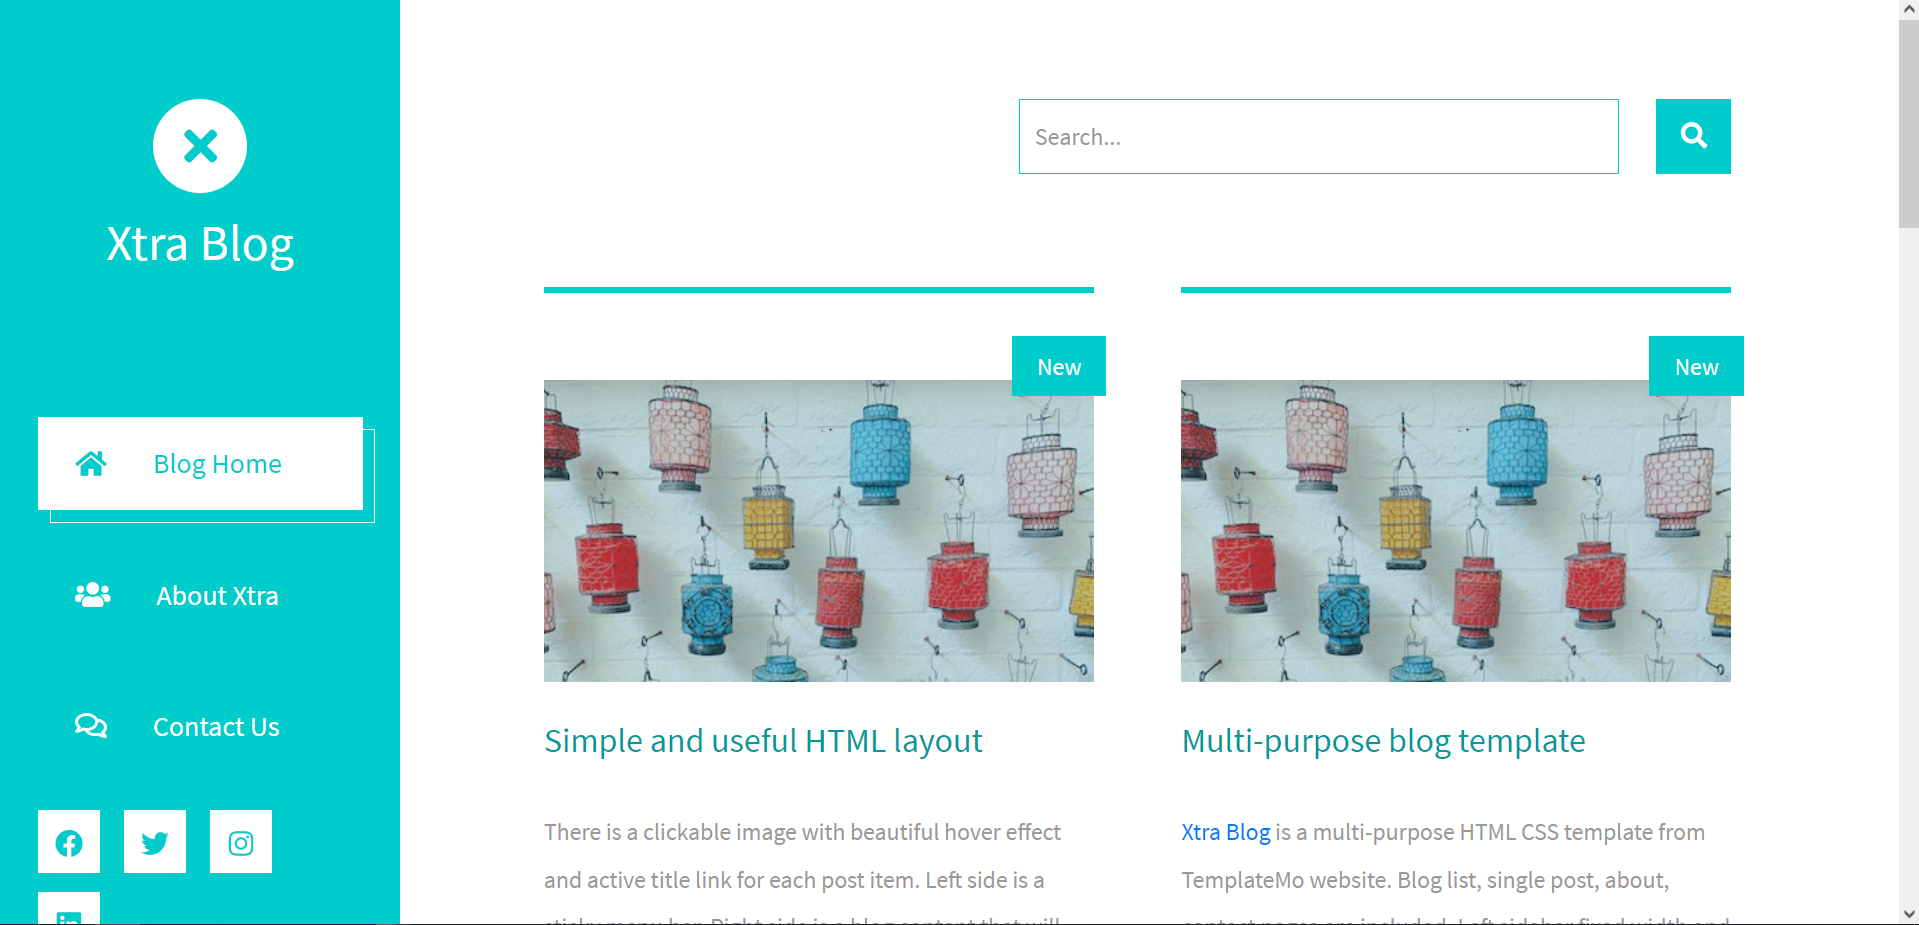
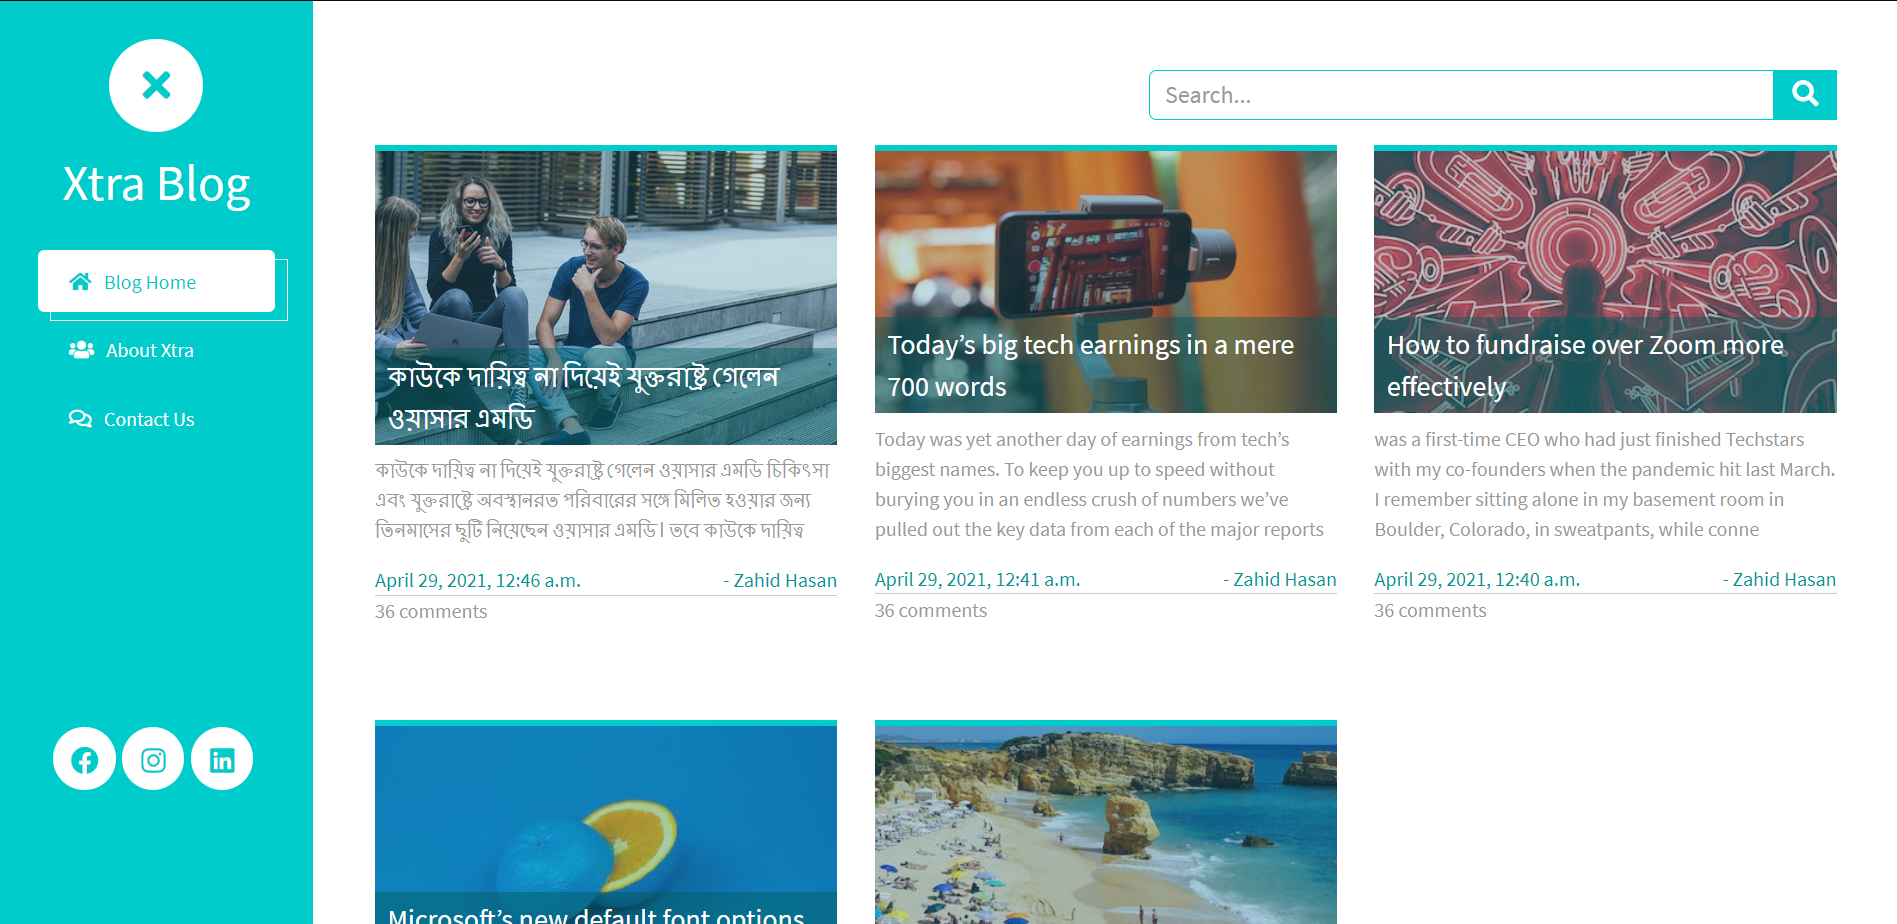
dynamic data adde and admin setup

diff --git a/templates/blocks/footer.html b/templates/blocks/footer.html
@@ -1,6 +1,9 @@
 <footer class="row tm-row">
   <hr class="col-12" />
-  <div class="col-md-12 col-12 tm-color-gray tm-copyright">
+  <div
+    class="col-md-12 col-12 tm-color-gray tm-copyright"
+    style="padding: 20px; margin-top: 5px"
+  >
     Copyright 2020 Xtra Blog Company Co. Ltd.
   </div>
 </footer>

diff --git a/blog_app/templates/blog/post.html b/blog_app/templates/blog/post.html
@@ -32,7 +32,7 @@
     <a href="post.html" class="effect-lily tm-post-link">
       <div class="tm-post-link-inner">
         <img
-          src="{% static 'img/img-06.jpg' %}"
+          src="{% static 'img/'|add:post.image_name %}"
           alt="Image"
           class="img-fluid"
         />

diff --git a/blog_app/static/css/templatemo-xtra-blog.css b/blog_app/static/css/templatemo-xtra-blog.css
@@ -231,11 +231,11 @@ ul {
 .tm-post { margin-bottom: 75px; }
 
 .tm-new-badge {
-    top: 15px;
-    background-color: #0CC;
+    bottom: 0px;
+    background-color: #005B5B70;
     color: white;
     padding: 5px 10px;
-    font-size: 1.5rem;
+    font-size: 1.4rem;
 }
 
 .tm-post-title {

diff --git a/blog_app/admin.py b/blog_app/admin.py
@@ -5,7 +5,9 @@ from django.contrib import admin
 
 
 class PostAdmin(admin.ModelAdmin):
-    list = "__all__"
+    list_display = ("excerpt", "author", "date", "date")
+    list_filter = ("author", "tags", "date")
+    prepopulated_fields = {"slug": ("title",)}
 
 
 admin.site.register(Post, PostAdmin)

diff --git a/blog_app/views.py b/blog_app/views.py
@@ -12,7 +12,7 @@ def index(request):
     Returns:
         renders object: html with data
     """
-    posts = Post.objects.all()
+    posts = Post.objects.all().order_by("-date")[:6]
     return render(request, "blog/post.html", context={"blog": posts})
 
 
